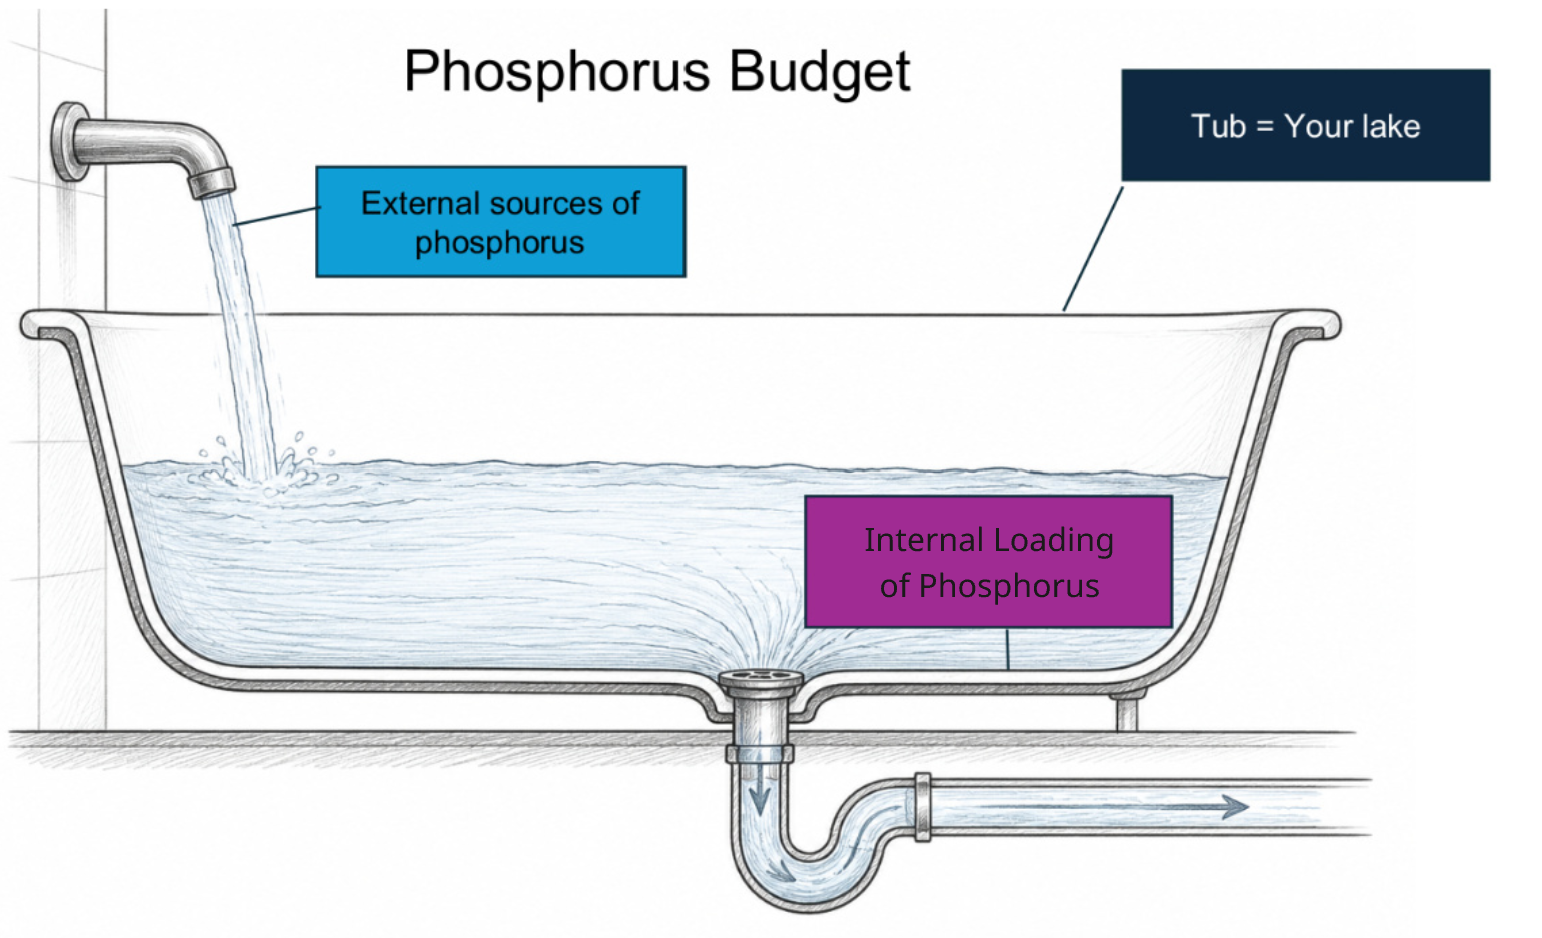
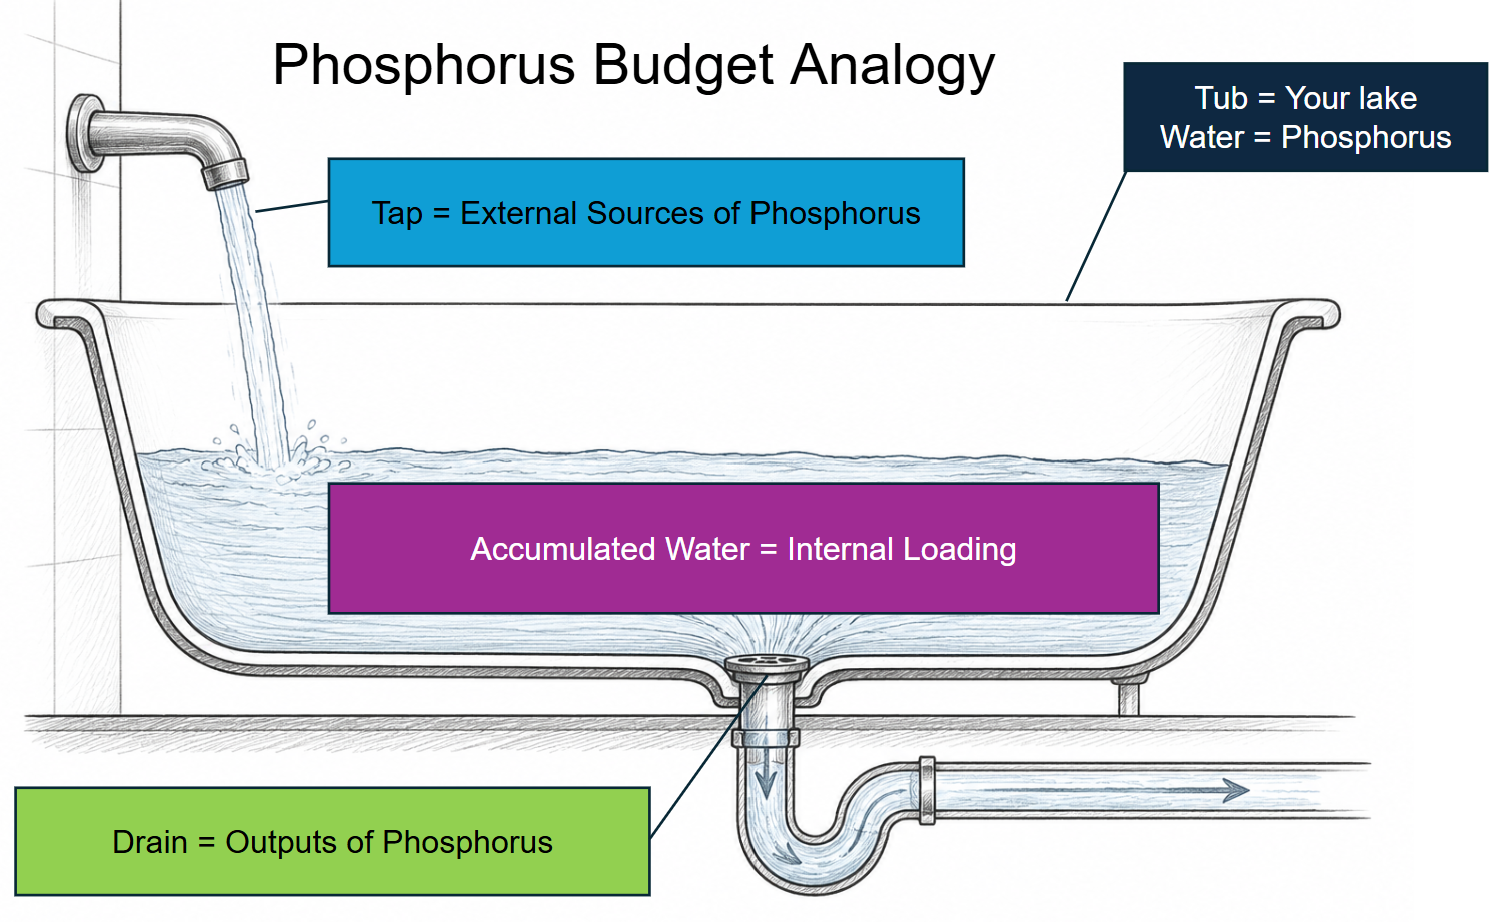
Final technical updates

Changed region(s): [[0.0, 0.0, 1.0, 0.9718], [0.1838, 0.0304, 0.6738, 0.1215]]

diff --git a/lcll/app/calculator/calculator-client.tsx b/lcll/app/calculator/calculator-client.tsx
@@ -233,6 +233,7 @@ interface CalculationResults {
     isTpRecent: boolean
   }
   internalLake: string | null
+  internalReportLake: string | null
   internalSecchi: string | null
   internalSed: string | null
   recommendedInternal: string | null
@@ -530,6 +531,12 @@ export default function CalculatorClient() {
     const internalLoadingLake = surfaceAreaMSq != null && anoxicFactor != null && releaseRateLake != null ? Number((surfaceAreaMSq * anoxicFactor * releaseRateLake) * (2.20462 * 10 ** (-6))).toFixed(1) : null
     const internalLoadingSecchi = surfaceAreaMSq != null && anoxicFactor != null && releaseRateSecchi != null ? Number((surfaceAreaMSq * anoxicFactor * releaseRateSecchi) * (2.20462 * 10 ** (-6))).toFixed(1) : null
     const internalLoadingSed = surfaceAreaMSq != null && anoxicFactor != null && releaseRateSed != null ? Number((surfaceAreaMSq * anoxicFactor * releaseRateSed) * (2.20462 * 10 ** (-6))).toFixed(1) : null
+    const reportLakePhosphorusUgLP = selectedLake && dataYear && lakeData[selectedLake]?.lakePhosphorus != null
+      ? convertPhosphorusToUgL(lakeData[selectedLake].lakePhosphorus, activeUnit.lakePhosphorus)
+      : null
+    const reportAnoxicFactor = reportLakePhosphorusUgLP != null && osgood != null ? (-35.4 + 44.2 * Math.log10(reportLakePhosphorusUgLP) + 0.95 * (osgood)) : null
+    const reportReleaseRateLake = reportLakePhosphorusUgLP != null ? 12.116 * Math.log10(reportLakePhosphorusUgLP) - 9.708 : null
+    const internalLoadingReportLake = surfaceAreaMSq != null && reportAnoxicFactor != null && reportReleaseRateLake != null ? Number((surfaceAreaMSq * reportAnoxicFactor * reportReleaseRateLake) * (2.20462 * 10 ** (-6))).toFixed(1) : null
 
     let recommendedInternal = internalLoadingSed
     if (!recommendedInternal) {
@@ -562,6 +569,7 @@ export default function CalculatorClient() {
         isTpRecent: isTpRecent,
       },
       internalLake: internalLoadingLake,
+      internalReportLake: internalLoadingReportLake,
       internalSecchi: internalLoadingSecchi,
       internalSed: internalLoadingSed,
       recommendedInternal: recommendedInternal,
@@ -867,6 +875,15 @@ export default function CalculatorClient() {
                     <strong className="text-sm font-mono text-slate-900">{results.internalSecchi ? `${Number(results.internalSecchi).toFixed(0)} lbs/yr` : '—'}</strong>
                   </div>
 
+                  {results.inputs.isTpRecent && results.inputs.dataYear && results.internalReportLake && (
+                    <div className="flex items-center justify-between border-b border-dashed border-rose-200/50 pb-1.5">
+                      <span className="text-sm text-slate-700">
+                        Lake TP Model <span className="text-[10px] uppercase font-bold text-sky-700">({results.inputs.dataYear})</span>:
+                      </span>
+                      <strong className="text-sm font-mono text-slate-900">{`${Number(results.internalReportLake).toFixed(0)} lbs/yr`}</strong>
+                    </div>
+                  )}
+
                   {!results.inputs.isTpRecent && (
                     <div className="flex items-center justify-between pb-1.5">
                       <span className="text-sm text-slate-700">
@@ -911,9 +928,10 @@ export default function CalculatorClient() {
                   <h4 className="text-sm font-bold uppercase tracking-wider text-sky-800">3. Further Interpretations</h4>
                 </div>
 
-                <div className="space-y-3">
+                <div className="space-y-3 h-full flex flex-col justify-between">
 
-                  <div className="">
+                  <div className='space-y-2'>
+                    <div className="">
                     <p className="mt-1 text-sm text-slate-800">
                       {resultTpUgLP != null
                         ? (<span className="text-sm text-slate-800">
@@ -928,18 +946,20 @@ export default function CalculatorClient() {
                     </p>
                   </div>
 
-                  <div className="">
+                  <div className="flex flex-col justify-between">
                     <p className="mt-1 text-sm text-slate-800">
                       An Osgood Index helps explain <strong>the shape of the lake and its tendency to stratify</strong>.
                       In more stratified lakes, the phosphorus, although released, does not enter the upper layers and fertilize the algae as often.
                       An osgood index of <strong>4 or above</strong> indicates a high likelihood of stratification, 
                       though this cutoff can be <strong>less exact in lakes with unusual shape or extreme depths</strong> in some places.
                     </p>
-                    <div className="mt-3 rounded-xl border border-sky-200 bg-sky-100 p-2.5 text-center text-sm font-semibold text-sky-800">
+                  </div>
+                  </div>
+
+                  <div className="mt-3 rounded-xl border border-sky-200 bg-sky-100 p-2.5 text-center text-sm font-semibold text-sky-800">
                       {resultOsgoodIndex != null
                         ? `Osgood Index: ${resultOsgoodIndex.toFixed(2)} -> ${resultIsStratified ? 'Stratified' : 'Not Stratified'}`
                         : 'Osgood Index: —'}
-                    </div>
                   </div>
                 </div>
               </div>
@@ -991,8 +1011,8 @@ export default function CalculatorClient() {
         <div className="rounded-2xl p-3 text-sm text-slate-900">
           <p className="font-semibold">Important Guidelines:</p>
           <ul className="mt-1 list-none list-inside space-y-0.5 text-slate-900">
-            <li>Multiple units are supported for each input. <strong>Select your preferred unit using the dropdown</strong> next to each field. </li>
-            <li>Be careful about the distinction between <strong>Phosphorus & Phosphate</strong></li>
+            <li>Multiple units are supported for each input. <strong>Select your preferred unit using the dropdown</strong> next to each field. </li>             
+            <li>Be careful about the following distinctions: <strong>Phosphorus (P) & Phosphate (PO4)</strong> and <strong>Soluble Reactive Phosphate (SRP) & Total Phosphorus (TP)</strong> </li>
             <li>Ensure all entered data inputs are collected from the <strong>same calendar year</strong> for consistency (Except if you do not have a current-year Total Phosphorus value).</li>
             <li>The<Link href='https://www.lakecounty.gov/health-department' target='_blank' className='text-blue-700 font-semibold underline ml-1'>Lake County Health Department Report</Link> and<Link href='https://vpnww-299518.projects.earthengine.app/view/lcllpilot' target='_blank' className='text-blue-700 font-semibold underline ml-1'>Google Earth Data</Link> will be helpful</li>
           </ul>

diff --git a/lcll/app/background/page.tsx b/lcll/app/background/page.tsx
@@ -621,7 +621,7 @@ const faqData: FAQItem[] = [
             <li>
               <strong>Direct Expert Consultations:</strong> Nürnberg, Gertrud K. <em>Direct Interview & Consulting Guidance</em>.
               <br />
-              <span className="text-sm text-slate-700"><em>Dr. Nürnberg was directly interviewed with specific questions to refine the calculator's logic and reference materials.</em></span>
+              <span className="text-sm text-slate-700"><em>Dr. Gertrud Nürnberg graciously agreed to be interviewed and answered specific questions to refine the calculator's logic and reference materials; she provided additional consultation via email post interview.</em></span>
             </li>
             <li>
               <strong>Alternative Modeling Methods:</strong> Carter, Lindsey D., and Andrew R. Dzialowski. &ldquo;Predicting Sediment Phosphorus Release Rates Using Land-Use and Water-Quality Data.&rdquo; <em>Lake and Reservoir Management</em>, vol. 35, no. 4, 2019, pp. 382–392. DOI: <a href="https://doi.org/10.1080/10402381.2019.1633800" target="_blank" rel="noopener noreferrer" className="text-blue-600 hover:underline">10.1080/10402381.2019.1633800</a>.
